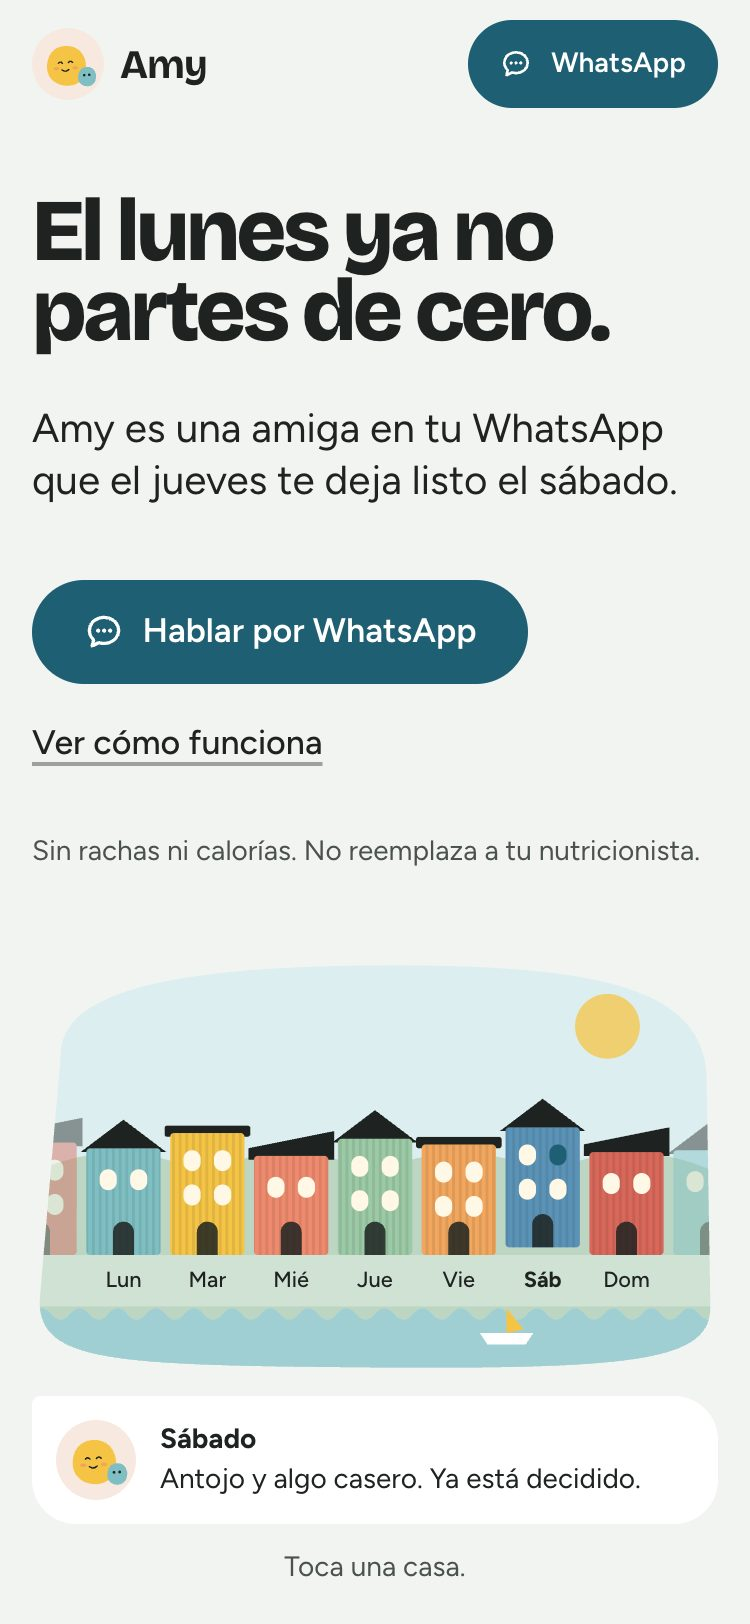
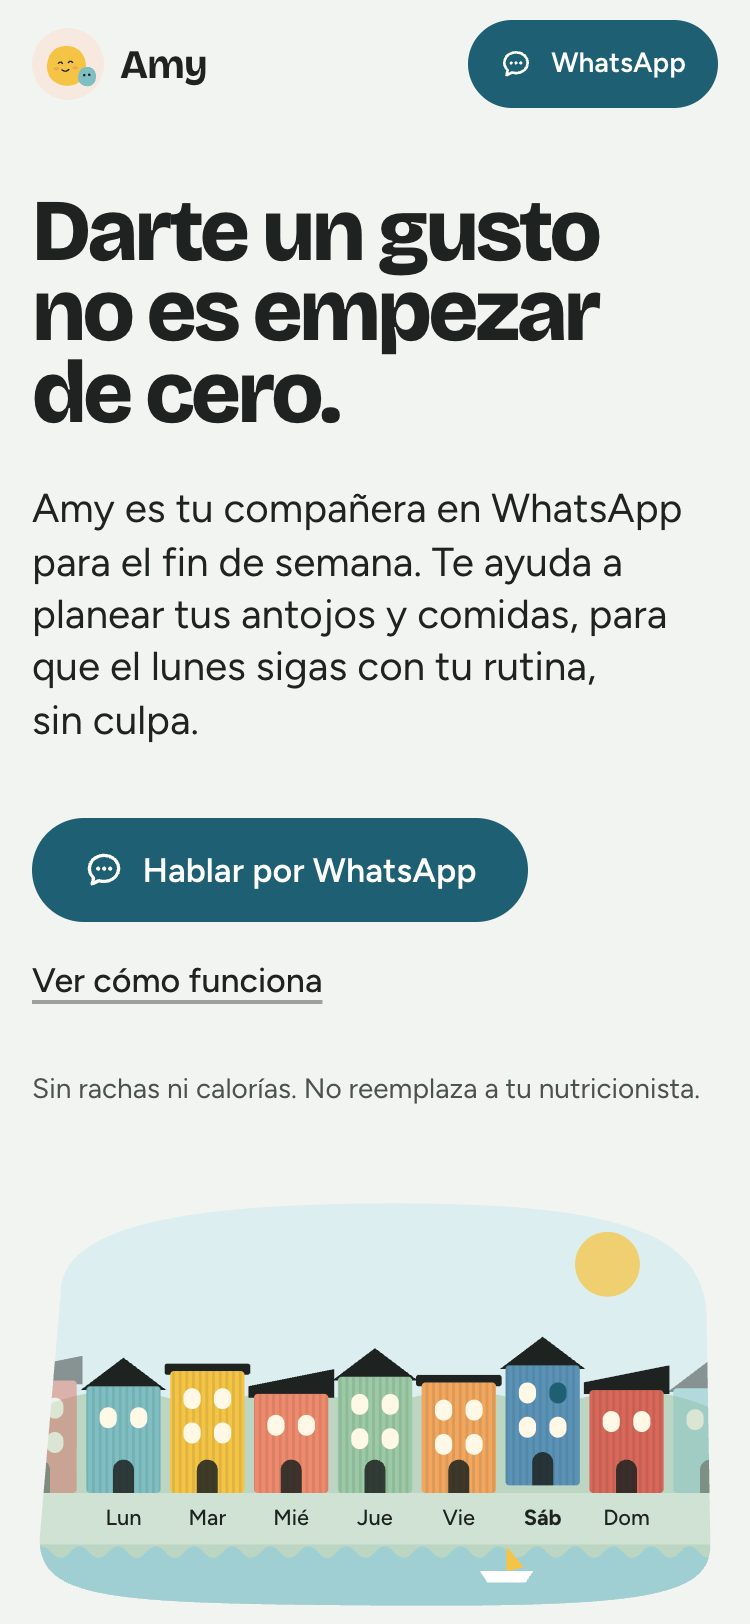
feat(landing): say plainly what Amy is for
Lead with the purpose: a weekend treat isn't starting over. Amy is a
WhatsApp companion that helps plan cravings and meals so Monday's
routine just continues. Explain the "ya la embarré" feeling in context
and show it as a chat exchange; align title, meta and closing copy.

diff --git a/landing/src/components/Problema.tsx b/landing/src/components/Problema.tsx
@@ -1,24 +1,32 @@
 import { useRevela } from "../lib/movimiento";
+import { NOMBRE } from "../config";
 import { AvatarAmi } from "./Avatar";
 import { Onda } from "./Onda";
 
-/** El problema en dos frases: lo que se dice el domingo y lo que contesta Amy. */
+/** El problema: un gusto el finde se siente como perder la semana. Y lo que contesta Amy. */
 export function Problema() {
   const ref = useRevela<HTMLElement>();
   return (
     <section ref={ref} className="grano bg-amarillo" aria-labelledby="titulo-problema">
       <div className="envoltura grid items-center gap-10 py-20 md:py-28 lg:grid-cols-12 lg:gap-8">
-        <div className="lg:col-span-7">
+        <div className="lg:col-span-6">
           <h2 id="titulo-problema" className="revela text-titulo">
-            «Ya la embarré, el lunes parto de nuevo.»
+            Un antojo el sábado no borra tu semana
           </h2>
           <p className="revela mt-6 max-w-[40ch] text-lead" style={{ ["--i" as string]: 1 }}>
-            Un completo a las tres de la mañana no borra tu semana. Con Amy, el finde ya viene en el plan.
+            Cuidas lo que comes de lunes a jueves. El finde sales, pides algo rico y sientes que ya la embarraste: que
+            se perdió la semana y el lunes toca partir de cero. {NOMBRE} está para que no sea así. El gusto del finde
+            también es parte del plan.
           </p>
         </div>
-        <div className="revela flex items-end gap-3 lg:col-span-4 lg:col-start-9" style={{ ["--i" as string]: 2 }}>
-          <AvatarAmi className="size-16 shrink-0" />
-          <p className="rounded-[4px_26px_24px_28px] bg-superficie px-5 py-4 text-lead">Pucha, qué lata quedarte con esa sensación. El plan se puede mover 🫶</p>
+        <div className="revela flex flex-col gap-3 lg:col-span-4 lg:col-start-9" style={{ ["--i" as string]: 2 }}>
+          <p className="ml-auto max-w-[90%] rounded-[22px_4px_22px_22px] bg-celeste px-5 py-3">
+            ya la embarré con la semana, el lunes parto de nuevo
+          </p>
+          <div className="flex items-end gap-3">
+            <AvatarAmi className="size-14 shrink-0" />
+            <p className="rounded-[4px_22px_22px_22px] bg-superficie px-5 py-3">Pucha, qué lata quedarte con esa sensación. El plan se puede mover 🫶</p>
+          </div>
         </div>
       </div>
       <Onda className="text-cielo" />

diff --git a/landing/index.html b/landing/index.html
@@ -9,10 +9,10 @@
       if (/[?&]reduced=1\b/.test(location.search)) document.documentElement.classList.add("reducido");
     </script>
 
-    <title>Amy | Tu sábado, decidido desde el jueves</title>
+    <title>Amy | Tu compañera para el fin de semana</title>
     <meta
       name="description"
-      content="Una amiga en tu WhatsApp que el jueves te deja listo el sábado: tu antojo y una receta casera de 10 minutos con lo que tienes en el refri. Sin rachas, sin calorías, sin culpa."
+      content="Amy es tu compañera en WhatsApp para el fin de semana: te ayuda a planear tus antojos y comidas para que darte un gusto no signifique empezar de cero el lunes. Sin rachas ni calorías."
     />
     <link rel="canonical" href="https://hola-amy-hackathon.vercel.app/" />
     <link rel="icon" type="image/svg+xml" href="/favicon.svg" />
@@ -21,10 +21,10 @@
 
     <meta property="og:type" content="website" />
     <meta property="og:site_name" content="Amy" />
-    <meta property="og:title" content="Amy | Tu sábado, decidido desde el jueves" />
+    <meta property="og:title" content="Amy | Tu compañera para el fin de semana" />
     <meta
       property="og:description"
-      content="El jueves te deja listo el sábado: tu antojo y una receta casera de 10 minutos. Si el plan se rompe, seguimos desde tu próxima comida."
+      content="Darte un gusto el finde no es empezar de cero. Amy te ayuda a planear tus antojos y comidas para que el lunes sigas con tu rutina, sin culpa."
     />
     <meta property="og:locale" content="es_CL" />
     <meta property="og:image" content="https://hola-amy-hackathon.vercel.app/og.png" />

diff --git a/landing/src/components/Portada.tsx b/landing/src/components/Portada.tsx
@@ -60,12 +60,13 @@ export function Portada() {
   return (
     <section id="inicio" className="relative overflow-hidden" aria-labelledby="titulo-portada">
       <div className="envoltura grid items-center gap-10 pt-8 pb-14 md:pt-14 lg:grid-cols-12 lg:gap-6 lg:pb-20">
-        <div className="lg:col-span-6">
+        <div className="lg:col-span-7">
           <h1 id="titulo-portada" className="entra text-display font-extrabold" style={{ ["--i" as string]: 0 }}>
-            El lunes ya no partes de cero.
+            Darte un gusto no es empezar de cero.
           </h1>
-          <p className="entra mt-6 max-w-[34ch] text-lead" style={{ ["--i" as string]: 1 }}>
-            {NOMBRE} es una amiga en tu WhatsApp que el jueves te deja listo el sábado.
+          <p className="entra mt-6 max-w-[40ch] text-lead" style={{ ["--i" as string]: 1 }}>
+            {NOMBRE} es tu compañera en WhatsApp para el fin de semana. Te ayuda a planear tus antojos y comidas, para
+            que el lunes sigas con tu rutina, sin culpa.
           </p>
           <div className="entra mt-9 flex flex-wrap items-center gap-x-7 gap-y-4" style={{ ["--i" as string]: 2 }}>
             <BotonWhatsApp />
@@ -77,7 +78,7 @@ export function Portada() {
             Sin rachas ni calorías. No reemplaza a tu nutricionista.
           </p>
         </div>
-        <div className="lg:col-span-6">
+        <div className="lg:col-span-5">
           <BordeCostero />
           <p className="mt-3 text-center text-chico text-tinta-suave">Toca una casa.</p>
         </div>

diff --git a/landing/src/components/Cierre.tsx b/landing/src/components/Cierre.tsx
@@ -32,10 +32,10 @@ export function Cierre() {
       <div className="envoltura grid gap-10 pt-20 pb-10 md:pt-28 lg:grid-cols-12">
         <div className="lg:col-span-8">
           <h2 id="titulo-cierre" className="text-display font-extrabold">
-            Deja listo tu próximo sábado.
+            Disfruta el finde. El lunes, sigues.
           </h2>
           <p className="mt-6 max-w-[44ch] text-lead">
-            Escríbele hoy. El jueves te pregunta si sales.
+            Escríbele hoy. El jueves te pregunta si sales y arman el sábado con tus antojos incluidos.
           </p>
           <a
             href={WHATSAPP_URL}
